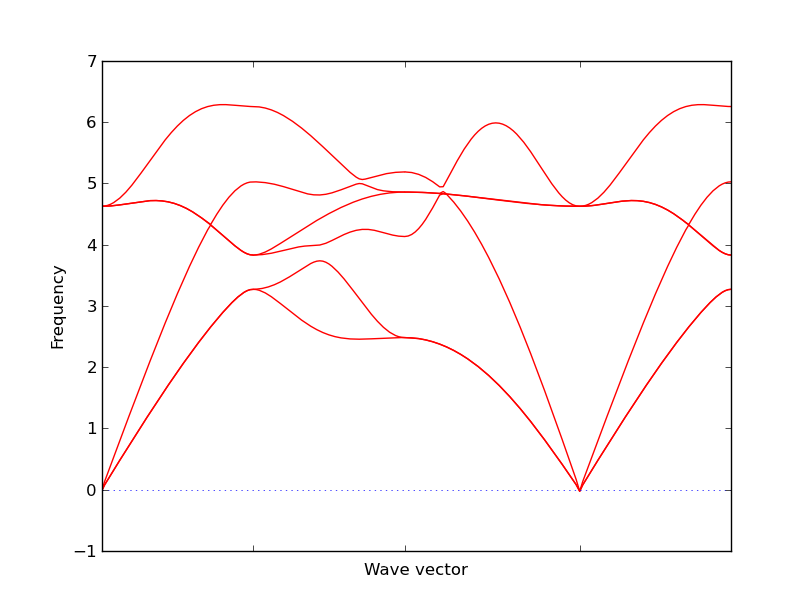
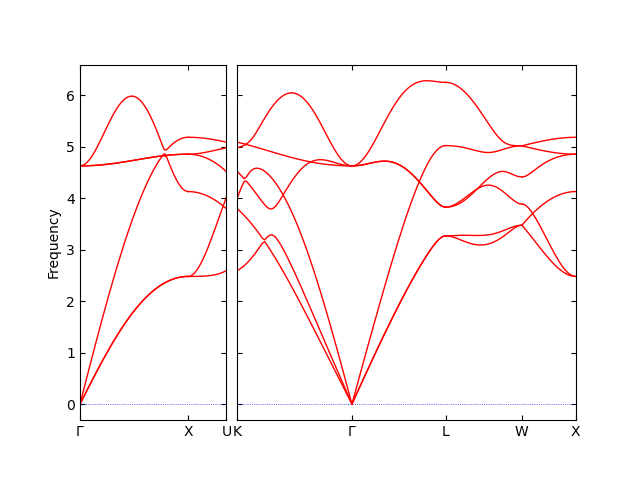
Update VASP-dfpt doc

diff --git a/doc/vasp-dfpt.md b/doc/vasp-dfpt.md
@@ -27,32 +27,22 @@ procedure to calculate phonon properties may be as follows:
       0.0000000000000000  0.0000000000000000  0.5000000000000000
    ```
 
-
 2) Prepare a perfect supercell structure from `POSCAR-unitcell`,
 
    ```bash
    % phonopy-init -d --dim 2 2 2 -c POSCAR-unitcell
    ```
 
-3) For later convenience, it is recommended to generate `phonopy_disp.yaml`
-   using `SPOSCAR` file,
+   This command writes `SPOSCAR`, `phonopy_disp.yaml`, and the displacement
+   cells `POSCAR-{number}`. For VASP-DFPT, only the perfect supercell `SPOSCAR`
+   is needed, and it will be used as `POSCAR` of the VASP calculation in the
+   next step. The displacement cells `POSCAR-{number}` are not used here; the
+   `-d` option is invoked only to write `phonopy_disp.yaml`, which stores the
+   cell information read back by `phonopy` in the post-process.
 
-   ```bash
-   % phonopy-init -d --dim 1 1 1 --pa auto -c SPOSCAR
-   ```
-
-4) Rename `SPOSCAR` created in (3) to `POSCAR` to be used in the VASP
-   calculation.
-
-   ```bash
-   % mv SPOSCAR POSCAR
-   ```
-
-   `POSCAR-{number}` files will never be used.
-
-4) Calculate force constants of the perfect supercell by running VASP
-   with `IBRION = 8`. An example of `INCAR` for
-   insulator may be such like (**just an example!**)
+3) Calculate force constants of the perfect supercell by running VASP
+   with `IBRION = 8`. An example of `INCAR` for an
+   insulator may look like (**just an example!**)
 
    ```
        PREC = Accurate
@@ -67,61 +57,75 @@ procedure to calculate phonon properties may be as follows:
      LCHARG = .FALSE.
    ```
 
-5) After finishing the VASP calculation, confirm `vasprun.xml`
+4) After finishing the VASP calculation, confirm `vasprun.xml`
    contains `hessian` elements, and then create `FORCE_CONSTANTS` by
 
    ```bash
    % phonopy-init --fc vasprun.xml
    ```
 
-6) Run phonopy
+5) Run phonopy
 
    ~~~
-   % phonopy --band "0.0 0.0 0.0  0.5 0.0 0.0  0.5 0.5 0.0  0.0 0.0 0.0  0.5 0.5 0.5" -p
-
+   % phonopy --band auto -p
            _
-     _ __ | |__   ___  _ __   ___   _ __  _   _
-    | '_ \| '_ \ / _ \| '_ \ / _ \ | '_ \| | | |
-    | |_) | | | | (_) | | | | (_) || |_) | |_| |
-    | .__/|_| |_|\___/|_| |_|\___(_) .__/ \__, |
-    |_|                            |_|    |___/
-                                         2.26.6
+    _ __ | |__   ___  _ __   ___   _ __  _   _
+   | '_ \| '_ \ / _ \| '_ \ / _ \ | '_ \| | | |
+   | |_) | | | | (_) | | | | (_) || |_) | |_| |
+   | .__/|_| |_|\___/|_| |_|\___(_) .__/ \__, |
+   |_|                            |_|    |___/
+                                         4.3.1
 
-   Compiled with OpenMP support (max 10 threads).
+   -------------------------[time 2026-07-03 16:51:48]-------------------------
+   Rust backend (phonors) using rayon (10 threads).
    Running in phonopy.load mode.
-   Python version 3.12.4
-   Spglib version 2.4.0
+   Python version 3.13.11
+   Spglib version 2.7.0
+
+   WARNING:
+     primitive_matrix defaulted to 'auto' and was resolved to a non-identity
+     matrix:
+       [ 0.00000,  0.50000,  0.50000]
+       [ 0.50000,  0.00000,  0.50000]
+       [ 0.50000,  0.50000,  0.00000]
+     This differs from phonopy v3, whose default was the identity matrix. Pass
+     primitive_matrix='P' (or --pa P on the command line) to restore the v3
+     behaviour.
 
    Crystal structure was read from "phonopy_disp.yaml".
    Unit of length: angstrom
-   Band structure mode
+   Band structure mode (Auto)
    Settings:
-     Supercell: [1 1 1]
-     Primitive matrix:
-       [0.   0.25 0.25]
-       [0.25 0.   0.25]
-       [0.25 0.25 0.  ]
+     Supercell: [2 2 2]
+     Primitive matrix (Auto):
+       [0.  0.5 0.5]
+       [0.5 0.  0.5]
+       [0.5 0.5 0. ]
    Spacegroup: Fm-3m (225)
    Number of symmetry operations in supercell: 1536
    Use -v option to watch primitive cell, unit cell, and supercell structures.
 
-   Force constants are read from "FORCE_CONSTANTS".
+   Force constants were read from "FORCE_CONSTANTS".
    Force constants format was transformed to compact format.
-   Array shape of force constants: (2, 64, 3, 3)
-   Max drift after symmetrization by translation: -0.000000 (zz) -0.000000 (zz)
+   Max drift after symmetrization by symfc projector: -0.00000000 (yy) -0.00000000 (yy)
 
+   SeeK-path is used to generate band paths.
+     About SeeK-path https://seekpath.readthedocs.io/ (citation there-in)
    Reciprocal space paths in reduced coordinates:
-   [ 0.000  0.000  0.000] --> [ 0.500  0.000  0.000]
-   [ 0.500  0.000  0.000] --> [ 0.500  0.500  0.000]
-   [ 0.500  0.500  0.000] --> [ 0.000  0.000  0.000]
+   [ 0.000  0.000  0.000] --> [ 0.500  0.000  0.500]
+   [ 0.500  0.000  0.500] --> [ 0.625  0.250  0.625]
+   [ 0.375  0.375  0.750] --> [ 0.000  0.000  0.000]
    [ 0.000  0.000  0.000] --> [ 0.500  0.500  0.500]
+   [ 0.500  0.500  0.500] --> [ 0.500  0.250  0.750]
+   [ 0.500  0.250  0.750] --> [ 0.500  0.000  0.500]
 
    Summary of calculation was written in "phonopy.yaml".
-                    _
-      ___ _ __   __| |
-     / _ \ '_ \ / _` |
-    |  __/ | | | (_| |
-     \___|_| |_|\__,_|
+   -------------------------[time 2026-07-03 16:58:27]-------------------------
+                   _
+     ___ _ __   __| |
+    / _ \ '_ \ / _` |
+   |  __/ | | | (_| |
+    \___|_| |_|\__,_|
    ~~~
 
    ```{image} NaCl-VASPdfpt.png
@@ -135,3 +139,12 @@ procedure to calculate phonon properties may be as follows:
    ```bash
    % phonopy band.conf
    ```
+
+## Non-analytical term correction (Optional)
+
+Non-analytical term correction requires the Born effective charges and
+dielectric constant supplied through a `BORN` file ({ref}`born_file`).
+These are obtained from a separate VASP calculation with `LEPSILON =
+.TRUE.`, and the `BORN` file can be generated with the `phonopy-vasp-born`
+auxiliary tool. The procedure is identical to the finite-displacement
+case; see {ref}`vasp_interface` for details.
